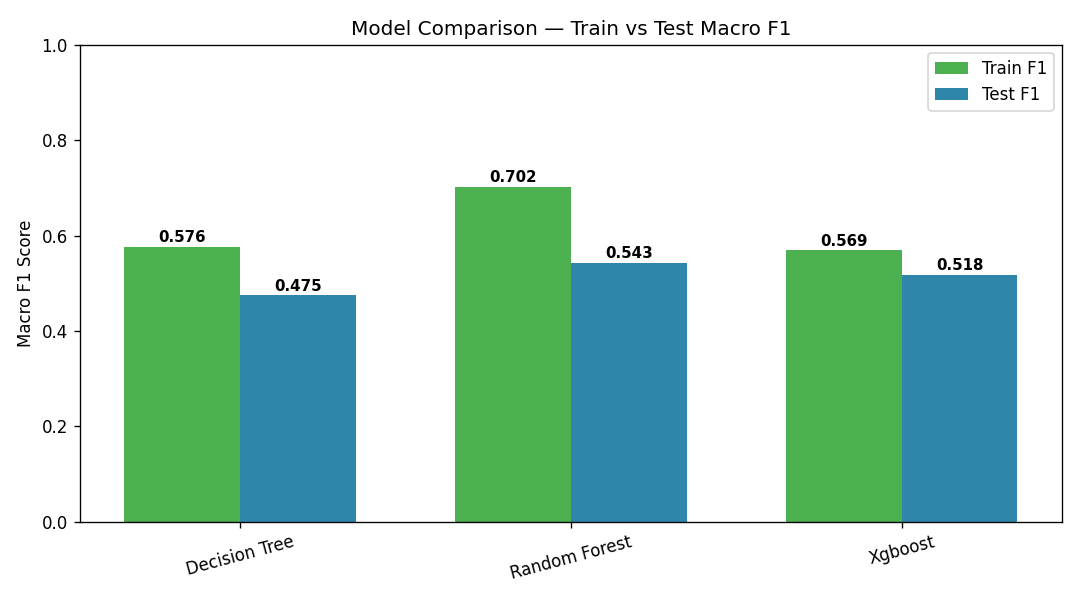
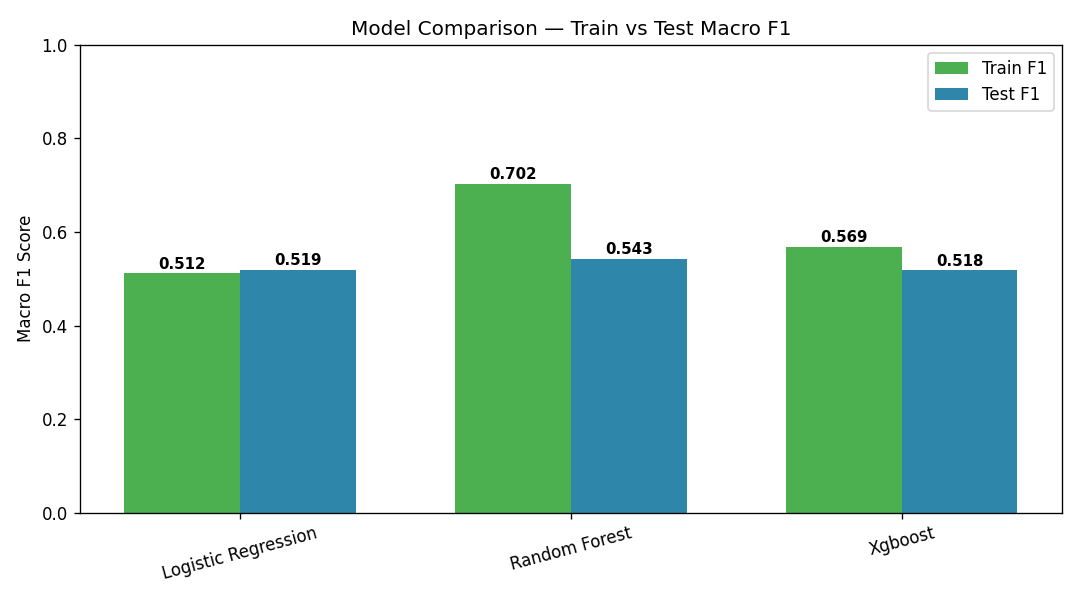
Updated config.py, train.py, evaluate.py, saved_model

diff --git a/src/config.py b/src/config.py
@@ -48,12 +48,11 @@ XGB_PARAMS = {
     "n_jobs":        -1,
 }
 
-# Decision Tree 
-DT_PARAMS = {
-    "max_depth":         6,              
-    "min_samples_leaf":  15,
-    "class_weight":      "balanced",     
-    "random_state":      RANDOM_STATE,
+# Logistic Regression
+LR_PARAMS = {
+    "max_iter":     1000,
+    "class_weight": "balanced",
+    "random_state": RANDOM_STATE,
 }
 
 # ── Tuning Grids (used when TUNE_MODELS = True) ────────────────
@@ -63,24 +62,22 @@ DT_PARAMS = {
 
 RF_PARAM_GRID = {
     "n_estimators":     [100, 200],
-    "max_depth":        [None, 10, 20],  # None = fully grown with leaf constraint
-    "min_samples_leaf": [2, 4, 8],      
+    "max_depth":        [6, 8, 10, None],
+    "min_samples_leaf": [2, 4, 8],
     "max_features":     ["sqrt"],
 }
 
 XGB_PARAM_GRID = {
-    "n_estimators":     [100, 200],
-    "max_depth":        [3, 4],         
-    "learning_rate":    [0.05, 0.1], 
+    "n_estimators":     [100, 200, 300],
+    "max_depth":        [3, 4, 5],
+    "learning_rate":    [0.05, 0.1, 0.2],
     "subsample":        [0.8],
     "colsample_bytree": [0.8],
 }
 
-DT_PARAM_GRID = {
-    "max_depth":        [10, 14, 18],
-    "min_samples_leaf": [15, 30, 50],
-    "criterion":        ["gini", "entropy"],
-    "class_weight":     ["balanced"]
+LR_PARAM_GRID = {
+    "C":      [0.01, 0.1, 1.0, 10.0],
+    "solver": ["lbfgs", "saga"],
 }
 
 # ── Cross Validation ───────────────────────────────────────────

diff --git a/src/train.py b/src/train.py
@@ -26,7 +26,7 @@ try:
 except ImportError:
     SMOTE_AVAILABLE = False
 
-from sklearn.tree import DecisionTreeClassifier
+from sklearn.linear_model import LogisticRegression
 from sklearn.ensemble import RandomForestClassifier
 from xgboost import XGBClassifier
 from sklearn.model_selection import train_test_split, GridSearchCV, StratifiedKFold
@@ -38,7 +38,7 @@ from src.config import (
     TUNE_MODELS,
     RF_PARAMS,  RF_PARAM_GRID,
     XGB_PARAMS, XGB_PARAM_GRID,
-    DT_PARAMS,  DT_PARAM_GRID,
+    LR_PARAMS,  LR_PARAM_GRID,
     CV_FOLDS, CV_SCORING,
 )
 from src.cleaning import clean_data
@@ -49,8 +49,7 @@ def get_models() -> dict:
     """
     Define the three models used in the pipeline.
 
-    - DecisionTreeClassifier  : interpretable tree baseline; handles non-linear
-                                boundaries; no scaling needed.
+    - LogisticRegression      : linear model for binary classification; requires scaling.
     - RandomForestClassifier  : ensemble of trees, robust to outliers and
                                 non-linear interactions; no scaling needed.
     - XGBClassifier           : gradient boosting with sample_weight for class
@@ -60,12 +59,12 @@ def get_models() -> dict:
     ~58/28/14% class imbalance across low/moderate/high activity.
     """
     return {
-        "decision_tree": {
-            "model": DecisionTreeClassifier(**DT_PARAMS),
-            "param_grid": DT_PARAM_GRID,
-            "needs_scaling": False,
-            "use_sample_weight": False,
-        },
+        "logistic_regression": {
+        "model":            LogisticRegression(**LR_PARAMS),
+        "param_grid":       LR_PARAM_GRID,
+        "needs_scaling":    True,   # uses X_train_scaled
+        "use_sample_weight": False,
+    },
         "random_forest": {
             "model": RandomForestClassifier(**RF_PARAMS),
             "param_grid": RF_PARAM_GRID,

diff --git a/src/evaluate.py b/src/evaluate.py
@@ -89,8 +89,10 @@ def evaluate_model(model_dir: str, model_name: str) -> dict:
     model, features, rev_map = load_model(model_dir, model_name)
 
     # ── BEFORE: training set ──────────────────────────────────────────────────
-    # All current models (decision_tree, random_forest, xgboost) use unscaled data
-    X_train, y_train = load_train_data(model_dir, use_scaled=False)
+    # logistic_regression needs scaled data; tree models use unscaled
+    needs_scaled = (model_name == "logistic_regression")
+
+    X_train, y_train = load_train_data(model_dir, use_scaled=needs_scaled)
     X_train          = X_train[features]
     y_train_pred     = model.predict(X_train)
     train_res = print_metrics(y_train, y_train_pred, label="TRAIN SET (after tuning)")
@@ -104,7 +106,7 @@ def evaluate_model(model_dir: str, model_name: str) -> dict:
     plt.savefig(os.path.join(model_dir, f"cm_{model_name}_train.png"), dpi=120)
 
     # ── AFTER: test set ───────────────────────────────────────────────────────
-    X_test, y_test = load_test_data(model_dir, use_scaled=False)
+    X_test, y_test = load_test_data(model_dir, use_scaled=needs_scaled)
     X_test         = X_test[features]
     y_test_pred    = model.predict(X_test)
     test_res = print_metrics(y_test, y_test_pred, label="TEST SET  (after tuning)")